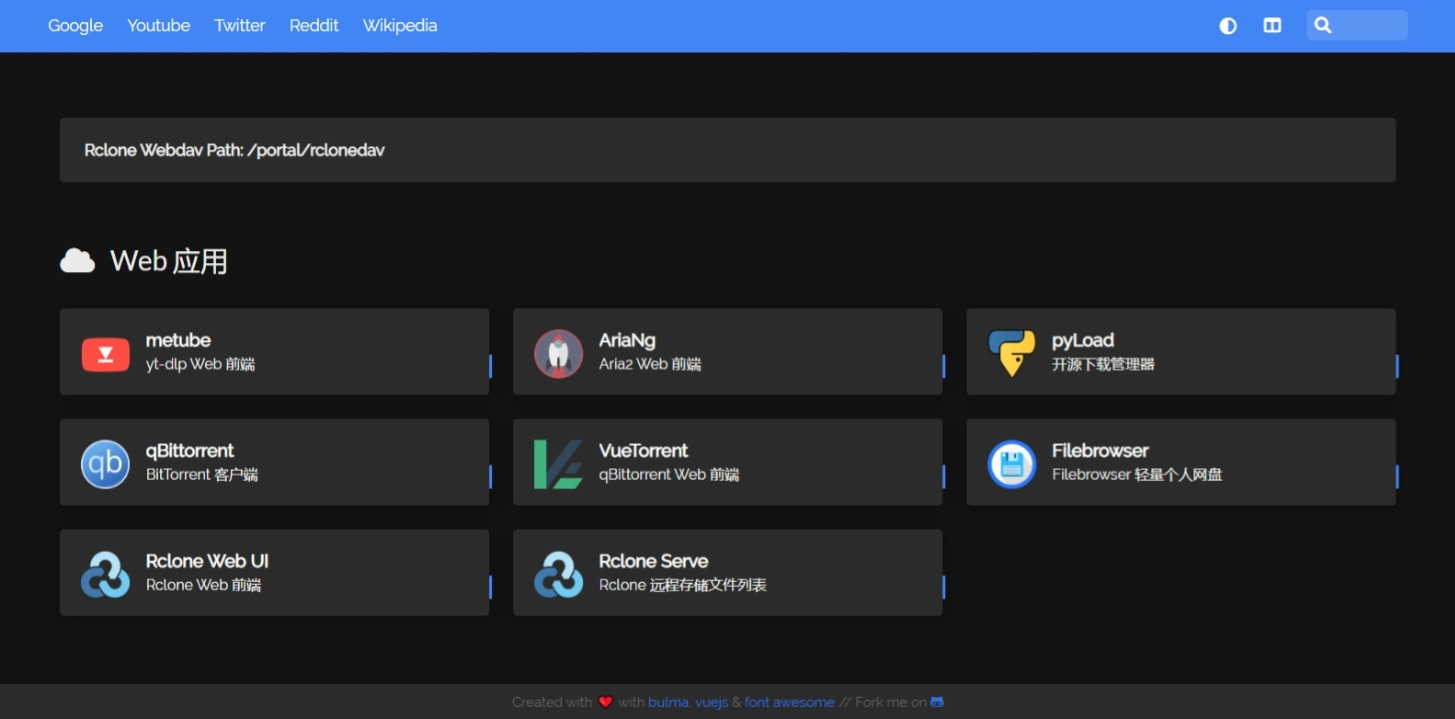
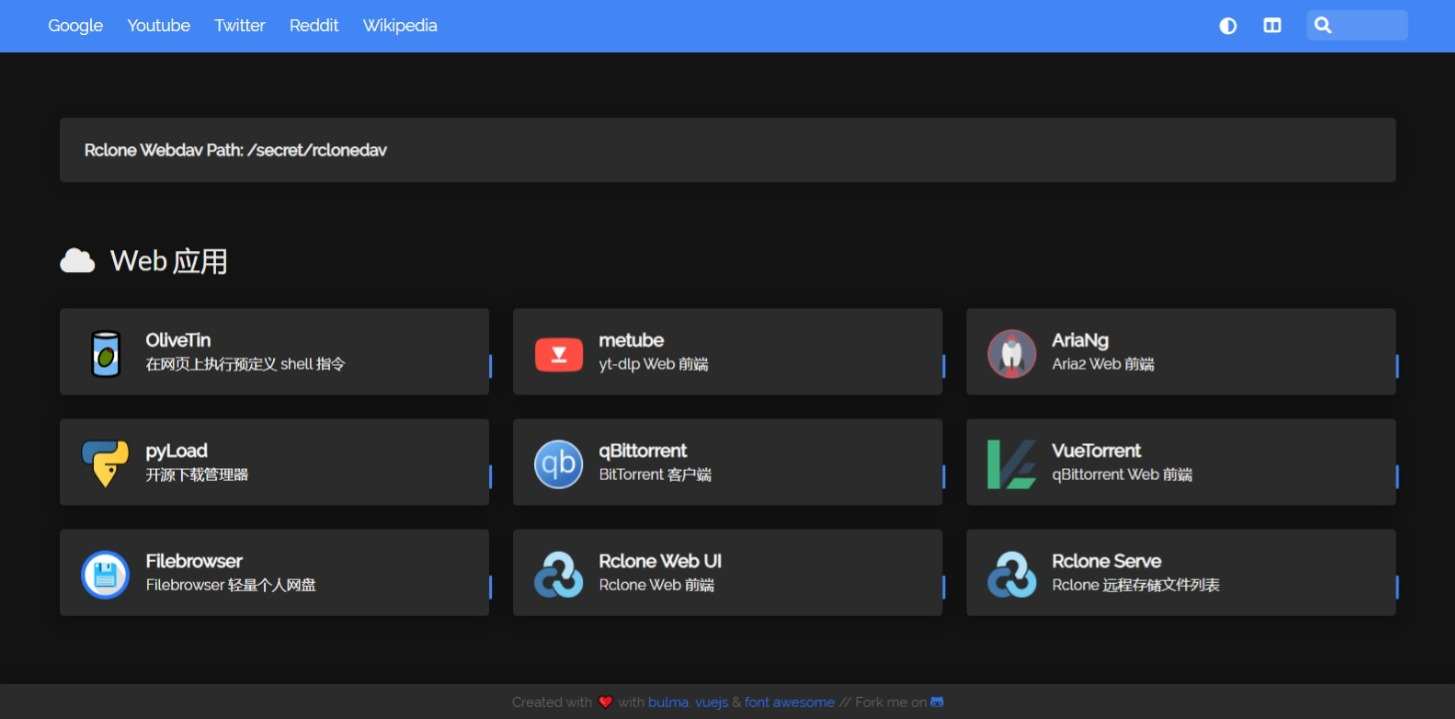
update readme

diff --git a/docs/README_docker.md b/docs/README_docker.md
@@ -12,10 +12,11 @@ This project integrates yt-dlp & its Web frontend metube, gallery-dl, Aria2 + We
 
  1. Rclone auto-upload function only needs to prepare rclone.conf file, and all other configurations are set to go.
  2. AMD64/Arm64 multi-architecture support, Lite version has additional Armv7 support.
- 3. Rclone runs on daemon mode, easy to manually transfer files and monitor transfers in real time on WebUI.
- 4. You can connect to Aria2, qBittorrent and Rclone from frontends/services running on other hosts, including flexget/Radarr/Sonarr.
- 5. [runit](http://smarden.org/runit/index.html)-based process management, each service can be started and stopped independently.
- 6. There are independent logs for each service in the log directory.
+ 3. Execute predefined yt-dlp, gallery-dl & Rclone commands from OliveTin WebUI.
+ 4. Rclone runs on daemon mode, easy to manually transfer files and monitor transfers in real time on WebUI.
+ 5. You can connect to Aria2, qBittorrent and Rclone from frontends/services running on other hosts, including flexget/Radarr/Sonarr.
+ 6. [runit](http://smarden.org/runit/index.html)-based process management, each service can be started and stopped independently.
+ 7. There are independent logs for each service in the log directory.
 
 ## <a id="Deployment"></a>Deployment
 

diff --git a/docs/README_docker_chs.md b/docs/README_docker_chs.md
@@ -12,10 +12,11 @@
 
  1. 联动上传功能只需要准备rclone.conf配置文件, 其他一切配置都预备齐全。
  2. AMD64/Arm64架构支持，Lite版本增加Armv7支持。
- 3. Rclone以daemon方式运行，可在WebUI上手动传输文件和实时监测传输情况。
- 4. Aria2、qBittorrent和Rclone可以接入其它host上运行的AriaNg/RcloneNg等前端面板和flexget/Radarr/Sonarr等应用。
- 5. 基于 [runit](http://smarden.org/runit/index.html) 的进程管理，每个服务可以独立启停。
- 6. log目录下有每个服务独立日志。
+ 3. 可以从OliveTin网页端执行预定义yt-dlp、gallery-dl和Rclone指令。
+ 4. Rclone以daemon方式运行，可在WebUI上手动传输文件和实时监测传输情况。
+ 5. Aria2、qBittorrent和Rclone可以接入其它host上运行的AriaNg/RcloneNg等前端面板和flexget/Radarr/Sonarr等应用。
+ 6. 基于 [runit](http://smarden.org/runit/index.html) 的进程管理，每个服务可以独立启停。
+ 7. log目录下有每个服务独立日志。
 
 ## 部署方式
 
